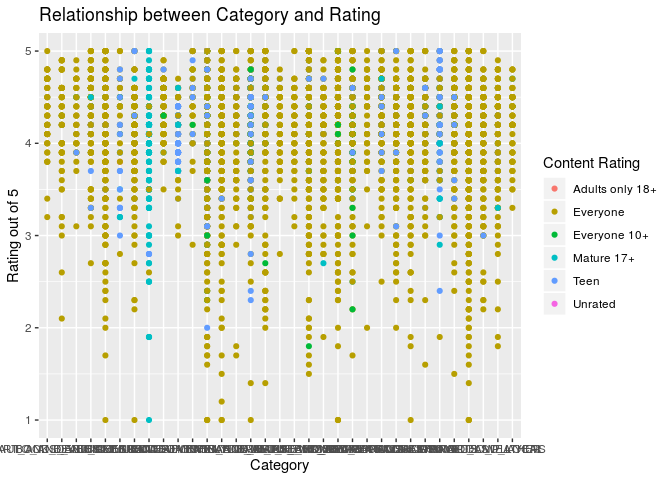
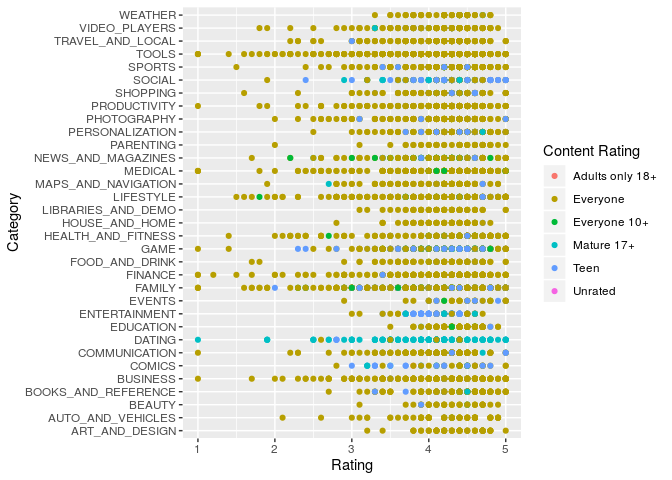
Final Changes to Regression Analysis Portion

diff --git a/01-proposal/proposal.md b/01-proposal/proposal.md
@@ -52,14 +52,14 @@ individual app on the Google Play
 library(tidyverse)
 ```
 
-    ## ── Attaching packages ──────────────────────────────────────────────────── tidyverse 1.2.1 ──
+    ## ── Attaching packages ────────────────────────────────────────────────────────────────────────────────────────────────────────────────────────────────────── tidyverse 1.2.1 ──
 
     ## ✔ ggplot2 3.2.1     ✔ purrr   0.3.2
     ## ✔ tibble  2.1.3     ✔ dplyr   0.8.3
     ## ✔ tidyr   0.8.3     ✔ stringr 1.4.0
     ## ✔ readr   1.3.1     ✔ forcats 0.4.0
 
-    ## ── Conflicts ─────────────────────────────────────────────────────── tidyverse_conflicts() ──
+    ## ── Conflicts ───────────────────────────────────────────────────────────────────────────────────────────────────────────────────────────────────────── tidyverse_conflicts() ──
     ## ✖ dplyr::filter() masks stats::filter()
     ## ✖ dplyr::lag()    masks stats::lag()
 
@@ -81,6 +81,7 @@ library(skimr)
     ##     filter
 
 ``` r
+library(readr)
 library(ggplot2)
 ```
 
@@ -213,12 +214,13 @@ rating among apps of different price levels is needed.
 ### Possible Interactions
 
 ``` r
-apps$Price <- as.numeric(apps$Price)
-```
+apps$Price <- as.numeric(gsub('[$.]', '', apps$Price))
+apps <- apps %>%
+  mutate(Price = case_when(
+  Price == 0 ~ "Free", 
+  Price < 5 & Price > 0~ "Between $0 and $4.99", 
+  Price > 5 ~ "Greater than $5"))
 
-    ## Warning: NAs introduced by coercion
-
-``` r
 skim(apps, Price)
 ```
 
@@ -226,33 +228,9 @@ skim(apps, Price)
     ##  n obs: 9365 
     ##  n variables: 13 
     ## 
-    ## ── Variable type:numeric ────────────────────────────────────────────────────────────────────
-    ##  variable missing complete    n mean sd p0 p25 p50 p75 p100     hist
-    ##     Price     647     8718 9365    0  0  0   0   0   0    0 ▁▁▁▇▁▁▁▁
-
-``` r
-filter(apps, Category == "FAMILY", Category == "GAME", Category =="TOOLS",Category =="PRODUCTIVITY", Category =="MEDICAL", Category =="COMMUNICATION", Category =="FINANCE", Category =="SPORTS",Category =="PHOTOGRAPHY", Category =="LIFESTYLE")
-```
-
-    ## # A tibble: 0 x 13
-    ## # … with 13 variables: App <chr>, Category <chr>, Rating <dbl>,
-    ## #   Reviews <dbl>, Size <chr>, Installs <chr>, Type <chr>, Price <dbl>,
-    ## #   `Content Rating` <chr>, Genres <chr>, `Last Updated` <chr>, `Current
-    ## #   Ver` <chr>, `Android Ver` <chr>
-
-``` r
-#mutate(Price = case_when(Price == 0 ~ "Free", Price < 5 & Price > 0~ "Between $0 and $4.99", Price > 5 ~ "Greater than $5"))
-
-skim(apps, Category)
-```
-
-    ## Skim summary statistics
-    ##  n obs: 9365 
-    ##  n variables: 13 
-    ## 
-    ## ── Variable type:character ──────────────────────────────────────────────────────────────────
+    ## ── Variable type:character ────────────────────────────────────────────────────────────────────────────────────────────────────────────────────────────────────────────────────
     ##  variable missing complete    n min max empty n_unique
-    ##  Category       0     9365 9365   4  19     0       33
+    ##     Price       0     9365 9365   4  15     0        2
 
 Since our question of interest is measuring the effect of various
 qualities of an app on its rating, there are a number of interactions
@@ -261,46 +239,53 @@ interaction between content rating and
 categories.
 
 ``` r
-filter(apps, Category == "FAMILY", Category == "GAME", Category =="TOOLS",Category =="PRODUCTIVITY", Category =="MEDICAL", Category =="COMMUNICATION", Category =="FINANCE", Category =="SPORTS",Category =="PHOTOGRAPHY", Category =="LIFESTYLE")
-```
-
-    ## # A tibble: 0 x 13
-    ## # … with 13 variables: App <chr>, Category <chr>, Rating <dbl>,
-    ## #   Reviews <dbl>, Size <chr>, Installs <chr>, Type <chr>, Price <dbl>,
-    ## #   `Content Rating` <chr>, Genres <chr>, `Last Updated` <chr>, `Current
-    ## #   Ver` <chr>, `Android Ver` <chr>
-
-``` r
-ggplot(apps, aes(x = Category, y = Rating, color = `Content Rating`)) + geom_point() +
-labs( title = "Relationship between Category and Rating", x ="Category", y = "Rating out of 5")
+ggplot(apps, aes(x = Category, y = Rating, color = `Content Rating`)) + geom_point() + coord_flip()
 ```
 
 ![](proposal_files/figure-gfm/int-content-1.png)<!-- -->
 
+``` r
+labs( title = "Relationship between Category and Rating", x ="Category", y = "Rating out of 5")
+```
+
+    ## $x
+    ## [1] "Category"
+    ## 
+    ## $y
+    ## [1] "Rating out of 5"
+    ## 
+    ## $title
+    ## [1] "Relationship between Category and Rating"
+    ## 
+    ## attr(,"class")
+    ## [1] "labels"
+
 As shown in the plot above, there may be a correlation between having a
 lower content rating and being in a “family-friendly” category such as
-Family or game. This interaction will have to be considered when
-building the model. As well, there is a clear interaction between other
-categories such as Mature or Teen being heavily represented among
-certain Categories. Secondly, there may be an interaction between number
-of reviews and
-installs.
+Family or game - a clear example of this phenomenon is in the category
+dating. This interaction will have to be considered when building the
+model. As well, there is a clear interaction between other categories
+such as Mature or Teen being heavily represented among certain
+Categories. Secondly, there may be an interaction between number of
+reviews and
+rating.
 
 ``` r
-ggplot(apps, aes(x = Reviews, y = Rating, color = Installs)) + geom_point() +
+ggplot(apps, aes(x = Reviews, y = Rating, color = Reviews)) + geom_point() +
 labs( title = "Relationship between Reviews and Rating", x ="# of Reviews ", y = "Rating out of 5")
 ```
 
-![](proposal_files/figure-gfm/int-installs-1.png)<!-- -->
+![](proposal_files/figure-gfm/int-reviews-1.png)<!-- -->
 
 As shown in this plot, as the number of reviews for an app increases, so
-does the number of installs. This is indicative of an app being popular
-so there is most likely some interaction between these two variables in
-the dataset. Thirdly, there may be an interaction between Type and
-Price. Since Type is an indicator measuring wether an app is paid or
-free, all apps that are free will be correlated with apps that have a
-price = 0 and apps that are paid will be correlated with apps that have
-a price greater than 0.
+does the rating generally. This is indicative of an app being popular so
+as there are more reviews there is most likely more polarization in the
+ratings. There is most likely some interaction between these two
+variables in the dataset. Thirdly, there may be an interaction between
+Type and Price. Since Type is an indicator measuring wether an app is
+paid or free, all apps that are free will be correlated with apps that
+have a price = 0 and apps that are paid will be correlated with apps
+that have a price greater than 0.
 
 ``` r
 ggplot(apps, aes(x = Type, y = Rating, color = Price)) + geom_point() +
@@ -394,7 +379,7 @@ glimpse(apps)
     ## $ Size             <chr> "19M", "14M", "8.7M", "25M", "2.8M", "5.6M", "1…
     ## $ Installs         <chr> "10,000+", "500,000+", "5,000,000+", "50,000,00…
     ## $ Type             <chr> "Free", "Free", "Free", "Free", "Free", "Free",…
-    ## $ Price            <dbl> 0, 0, 0, 0, 0, 0, 0, 0, 0, 0, 0, 0, 0, 0, 0, 0,…
+    ## $ Price            <chr> "Free", "Free", "Free", "Free", "Free", "Free",…
     ## $ `Content Rating` <chr> "Everyone", "Everyone", "Everyone", "Teen", "Ev…
     ## $ Genres           <chr> "Art & Design", "Art & Design;Pretend Play", "A…
     ## $ `Last Updated`   <chr> "January 7, 2018", "January 15, 2018", "August …
